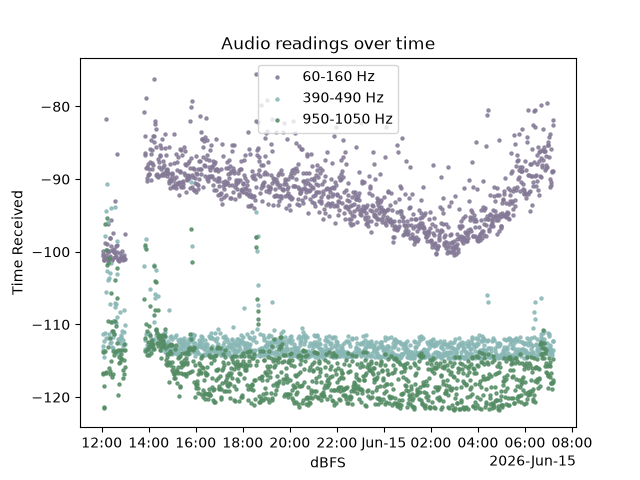
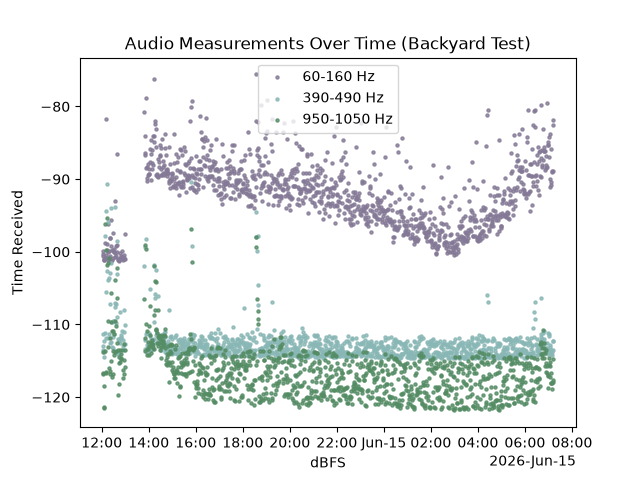
update chart and migration instructions

Changed region(s): [[0.1875, 0.0625, 0.8438, 0.125]]

diff --git a/data/chart.py b/data/chart.py
@@ -32,7 +32,7 @@ ax.scatter(x, hZ_1000, label = "950-1050 Hz", color = "#548C64", alpha = 0.8, s=
 ax.xaxis.set_major_formatter(ConciseDateFormatter(ax.xaxis.get_major_locator()))
 # ax.yaxis()
 
-ax.set_title("Audio readings over time")
+ax.set_title("Audio Measurements Over Time (Backyard Test)")
 ax.set_xlabel('dBFS')
 ax.set_ylabel('Time Received')
 ax.legend()

diff --git a/README.md b/README.md
@@ -56,7 +56,13 @@ meshtastic --port /dev/ttyUSB1 --set channel_index 1 channel_num 1
 ```
 
 
+**Migrate from local testing to server**  
 Dump data:
 ```bash
-pg_dump -h [host] -p [port] -U [username] -d [database_name] > [backup_file.sql]
+docker run --rm -it --network host --env-file .env_pg -v "$(pwd)":/backup --entrypoint pg_dump postgres:18 -h localhost -U "$POSTGRES_USER" -d "$POSTGRES_DB" -F c -f /backup/local-backup-$(date +%Y%m%d).dump
+```
+
+Restore data:
+```bash
+docker run --rm -it --env-file .env_remote -v "$(pwd)":/backup --entrypoint pg_restore postgres:18 -h postgres.lan -p 5432 -U "$POSTGRES_USER" -d sensors --clean --if-exists /backup/local-backup-20260616.dump
 ```